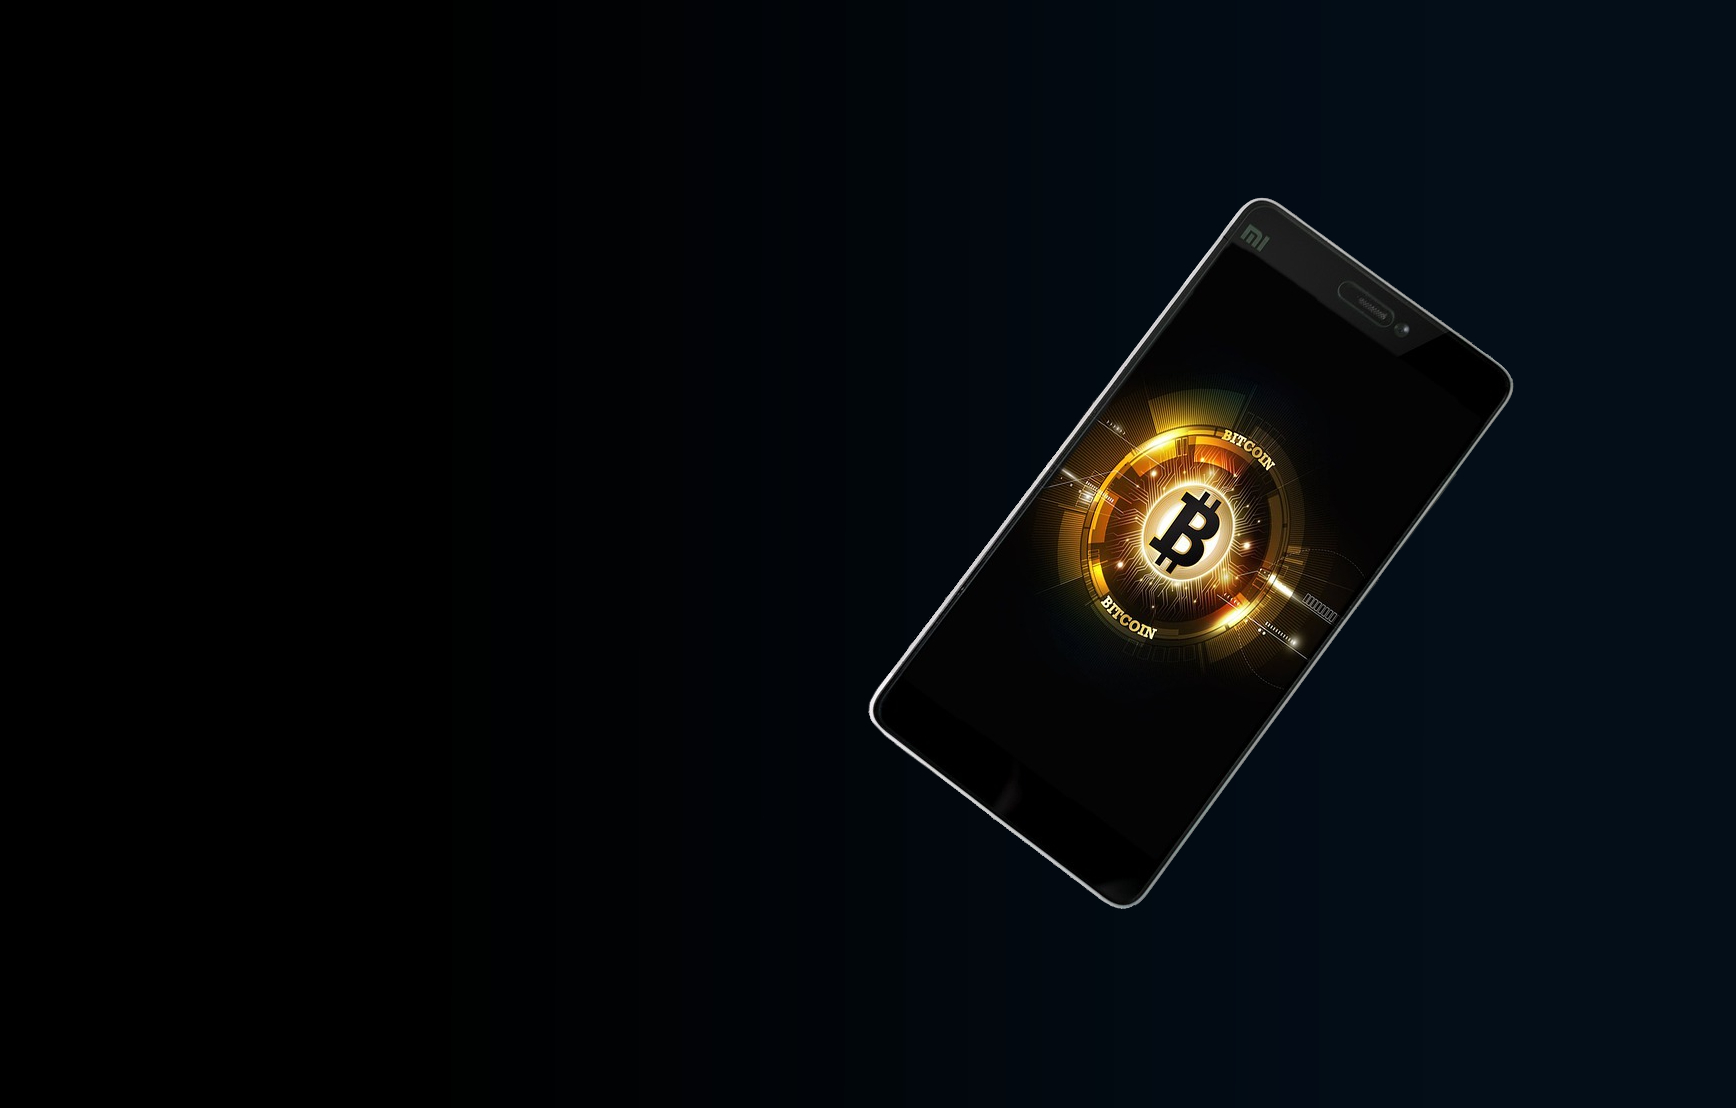
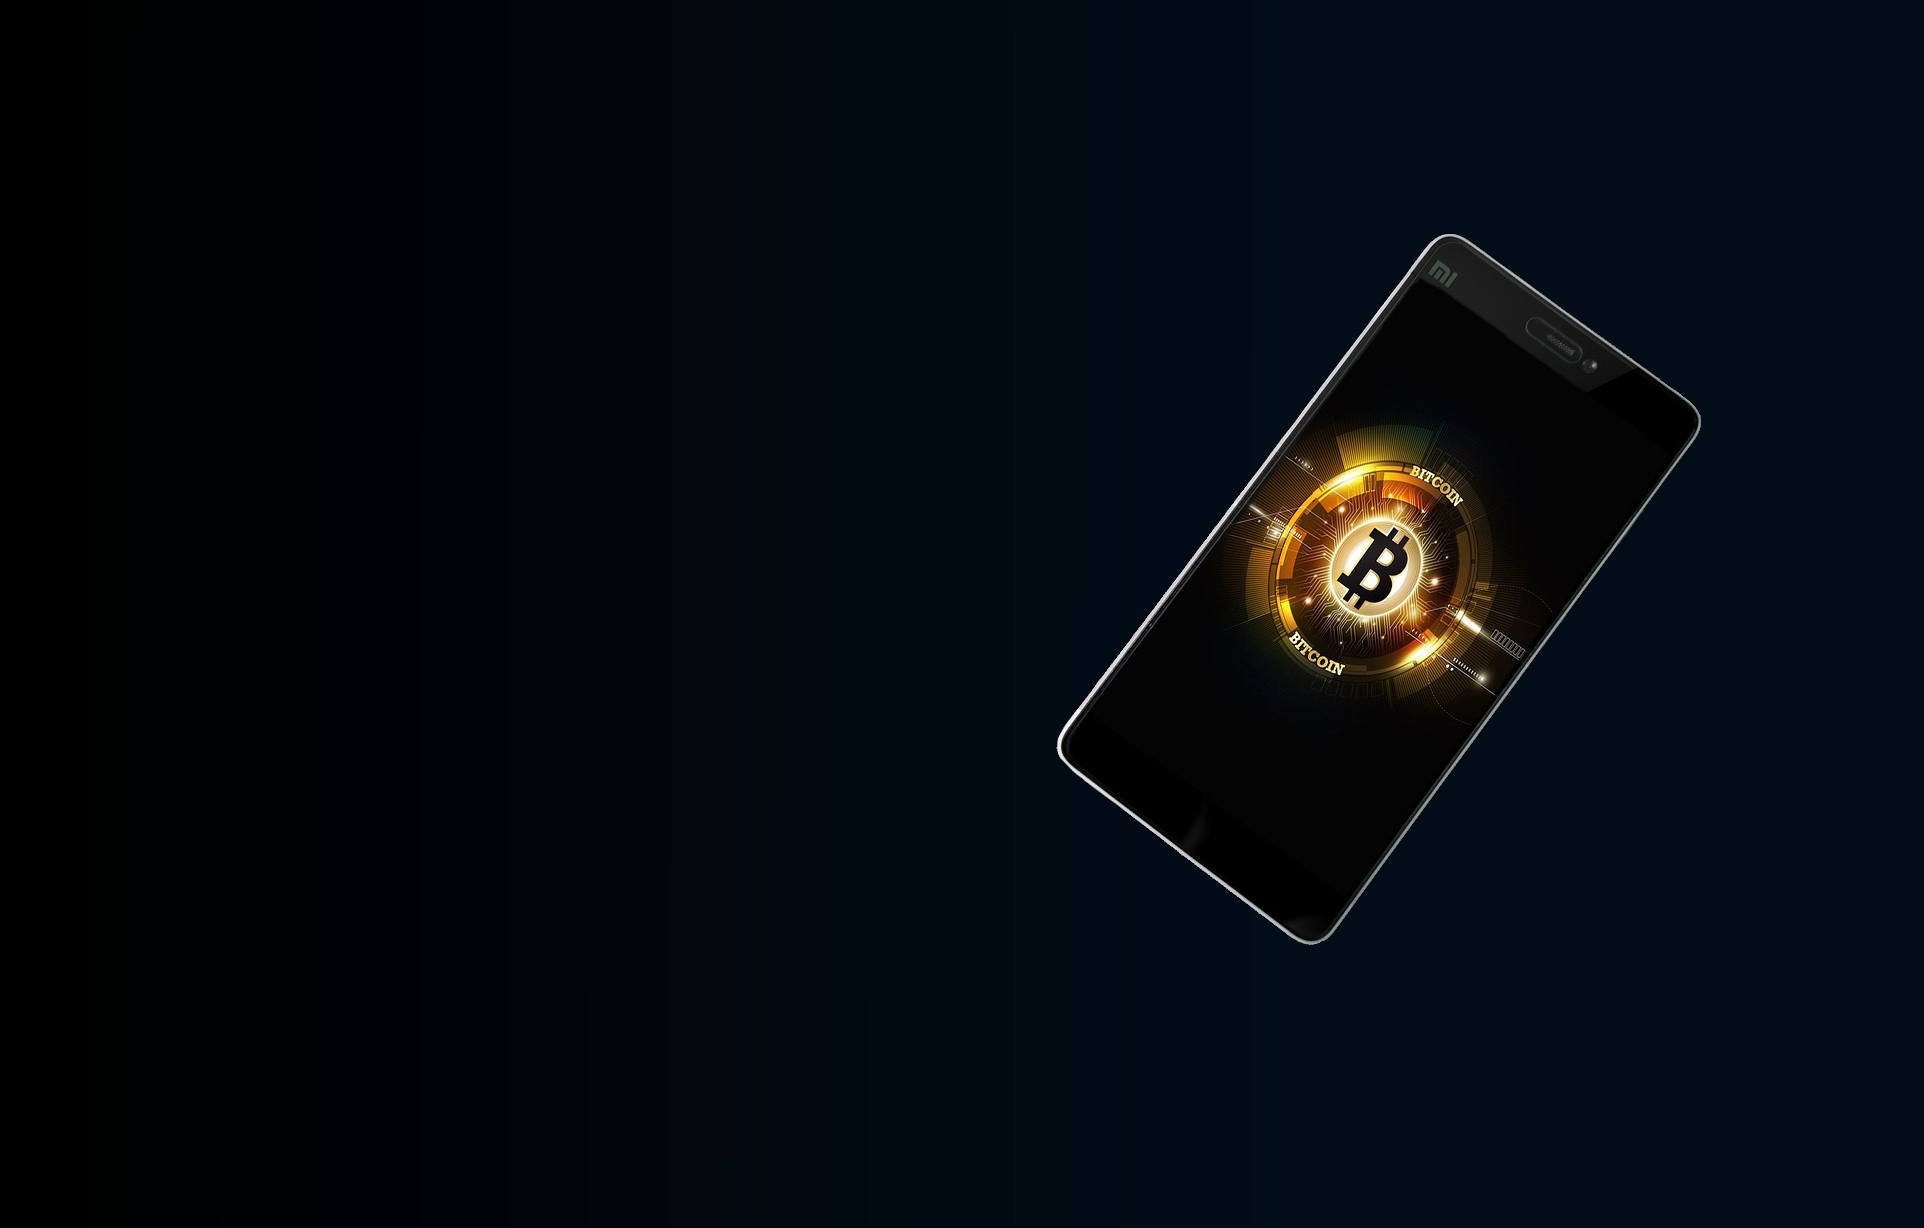
EStilos

diff --git a/src/App.vue b/src/App.vue
@@ -33,90 +33,75 @@ const cotizarCripto = () => {
 </script>
 
 <template>
-  <div class="contenedor">
-    <h1 class="titulo">Crypto<span> Check</span></h1>
-    <p>
-      Cotiza en tiempo real el precio de las
-      <span>20 Criptomonedas con más valor</span> o capitalización en el mercado
-    </p>
+  <div class="background">
+    <div class="contenedor">
+      <h1 class="titulo">Crypto<span> Check</span></h1>
+      <p class="descripcion">
+        Cotiza en tiempo real el precio de las
+        <span>20 Criptomonedas con más valor</span> o capitalización en el
+        mercado
+      </p>
 
-    <div class="contenido">
-      <form class="formulario" @submit.prevent="cotizarCripto">
-        <div class="campo">
-          <label for="moneda">Elige tu moneda</label>
-          <select id="moneda" v-model="cotizar.moneda">
-            <option value="">Selecciona</option>
-            <option v-for="moneda in monedas" :value="moneda.codigo">
-              {{ moneda.texto }}
-            </option>
-          </select>
-        </div>
-        <div class="campo">
-          <label for="cripto">Elige tu criptomoneda</label>
-          <select id="cripto" v-model="cotizar.criptomoneda">
-            <option value="">Selecciona</option>
-            <option
-              v-for="cripto in criptomonedas"
-              :value="cripto.CoinInfo.Name"
-            >
-              {{ cripto.CoinInfo.FullName }}
-            </option>
-          </select>
-        </div>
+      <div class="contenido">
+        <form class="formulario" @submit.prevent="cotizarCripto">
+          <div class="campo">
+            <label for="moneda">Moneda</label>
+            <select id="moneda" v-model="cotizar.moneda">
+              <option value="">Selecciona una moneda</option>
+              <option v-for="moneda in monedas" :value="moneda.codigo">
+                {{ moneda.texto }}
+              </option>
+            </select>
+          </div>
+          <div class="campo">
+            <label for="cripto">Criptomoneda</label>
+            <select id="cripto" v-model="cotizar.criptomoneda">
+              <option value="">Selecciona una criptomoneda</option>
+              <option
+                v-for="cripto in criptomonedas"
+                :value="cripto.CoinInfo.Name"
+              >
+                {{ cripto.CoinInfo.FullName }}
+              </option>
+            </select>
+          </div>
 
-        <Alerta v-if="error">{{ error }}</Alerta>
+          <Alerta v-if="error">{{ error }}</Alerta>
 
-        <input type="submit" value="Cotizar" />
-      </form>
+          <input type="submit" value="Cotizar" />
+        </form>
 
-      <Spinner v-if="cargando" />
+        <Spinner v-if="cargando" />
 
-      <div class="contenedor-resultado" v-if="mostrarResultado">
-        <h2>Cotización</h2>
+        <div class="contenedor-resultado" v-if="mostrarResultado">
+          <h2>Cotización</h2>
 
-        <div class="resultado">
-          <img
-            :src="'https:/cryptocompare.com/' + cotizacion.IMAGEURL"
-            alt="Imagen de la cripto"
-          />
-          <div>
-            <p>
-              Su precio es de: <span>{{ cotizacion.PRICE }}</span>
-            </p>
-            <p>
-              Precio más alto del día: <span>{{ cotizacion.HIGHDAY }}</span>
-            </p>
-            <p>
-              Precio más bajo del día: <span>{{ cotizacion.LOWDAY }}</span>
-            </p>
-            <p>
-              Variación ultimas 24 hrs:
-              <span>{{ cotizacion.CHANGEPCT24HOUR }}%</span>
-            </p>
-            <p>
-              Última actualización: <span>{{ cotizacion.LASTUPDATE }}</span>
-            </p>
+          <div class="resultado">
+            <img
+              :src="'https://cryptocompare.com/' + cotizacion.IMAGEURL"
+              alt="Imagen de la cripto"
+            />
+            <div>
+              <p>
+                Su precio es de: <span>{{ cotizacion.PRICE }}</span>
+              </p>
+              <p>
+                Precio más alto del día: <span>{{ cotizacion.HIGHDAY }}</span>
+              </p>
+              <p>
+                Precio más bajo del día: <span>{{ cotizacion.LOWDAY }}</span>
+              </p>
+              <p>
+                Variación ultimas 24 hrs:
+                <span>{{ cotizacion.CHANGEPCT24HOUR }}%</span>
+              </p>
+              <p>
+                Última actualización: <span>{{ cotizacion.LASTUPDATE }}</span>
+              </p>
+            </div>
           </div>
         </div>
       </div>
     </div>
   </div>
 </template>
-
-<style>
-p {
-  color: rgba(255, 255, 255, 0.537);
-  line-height: 140%;
-  padding-left: 2rem;
-}
-p span {
-  font-weight: 500;
-  color: white;
-}
-
-@media (min-width: 768px) {
-  p span {
-    display: block;
-  }
-}
-</style>

diff --git a/src/style.css b/src/style.css
@@ -1,21 +1,31 @@
 :root {
   --blanco: #fff;
+  --blanco-transparente: rgba(255, 255, 255, 0.537);
   --primario: #4de8b2;
-  --negro: #182339;
+  --negro: #141a2c;
 }
 html {
   font-size: 62.5%;
 }
 body {
-  background-image: url(../img/bg.jpg);
-  background-position: center;
-  background-repeat: no-repeat;
-  background-size: cover;
   min-height: 100vh;
   font-family: "Outfit", sans-serif;
   font-size: 2rem;
-  background-color: var(--negro);
+  background: rgb(0, 0, 0);
+  background: linear-gradient(
+    90deg,
+    rgba(0, 0, 0, 1) 0%,
+    rgba(2, 16, 28, 1) 90%
+  );
+}
+.background {
+  background-image: url(../img/bg.png);
+  background-position: center;
+  background-repeat: no-repeat;
+  background-size: cover;
   background-attachment: fixed;
+  width: 100%;
+  min-height: 100vh;
 }
 .contenedor {
   max-width: 95rem;
@@ -32,6 +42,22 @@ body {
   color: var(--primario);
   display: block;
   font-size: 4.4rem;
+}
+.descripcion {
+  color: var(--blanco-transparente);
+  line-height: 140%;
+  padding-left: 2rem;
+  max-width: 40rem;
+}
+.descripcion span {
+  font-weight: 500;
+  color: white;
+}
+
+@media (min-width: 768px) {
+  .descripcion span {
+    display: block;
+  }
 }
 .contenido {
   margin-top: 2rem;
@@ -69,7 +95,8 @@ body {
   cursor: pointer;
   transition: background-color 300ms ease;
   margin-top: 2rem;
-  border-radius: 0.5rem;
+  border-radius: 1rem;
+  font-size: 1.5rem;
 }
 .formulario [type="submit"]:hover {
   background-color: #0cb387;
@@ -101,8 +128,11 @@ body {
   margin: 0 0 1.1rem;
   font-size: 1.6rem;
   font-weight: 700;
+  color: var(--blanco-transparente);
+  line-height: 145%;
 }
 .resultado span {
   font-weight: 500;
   display: block;
+  color: var(--blanco);
 }

diff --git a/src/components/Alerta.vue b/src/components/Alerta.vue
@@ -7,12 +7,12 @@
 <style>
 .alerta {
   text-align: center;
-  margin-bottom: 2rem;
   color: var(--blanco);
-  background-color: rgb(174, 0, 0);
+  background-color: rgba(131, 6, 6, 0.841);
   text-transform: uppercase;
   font-weight: 700;
   font-size: 1.4rem;
-  padding: 0.5rem;
+  padding: 1rem 0.5rem;
+  border-radius: 1rem;
 }
 </style>
